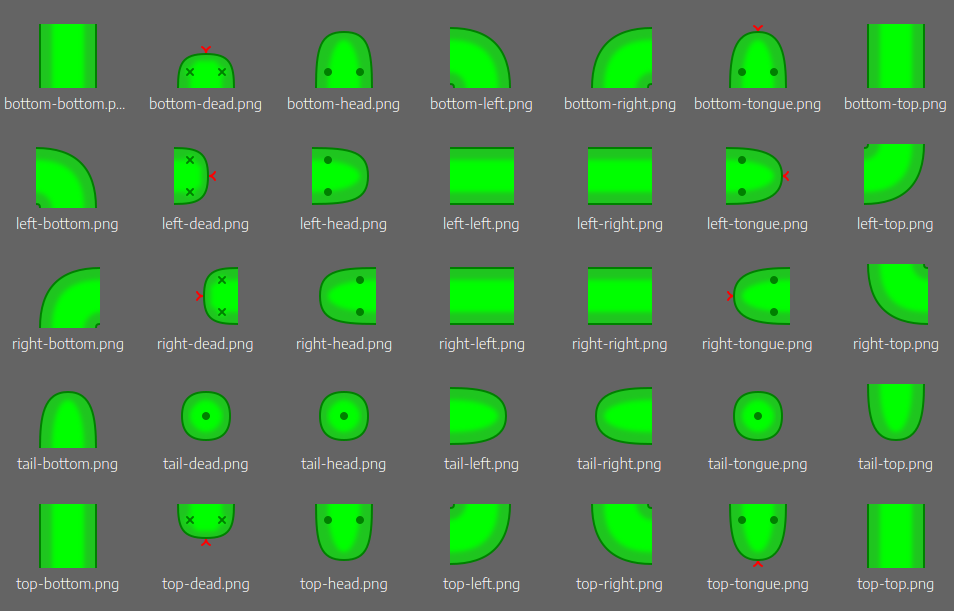
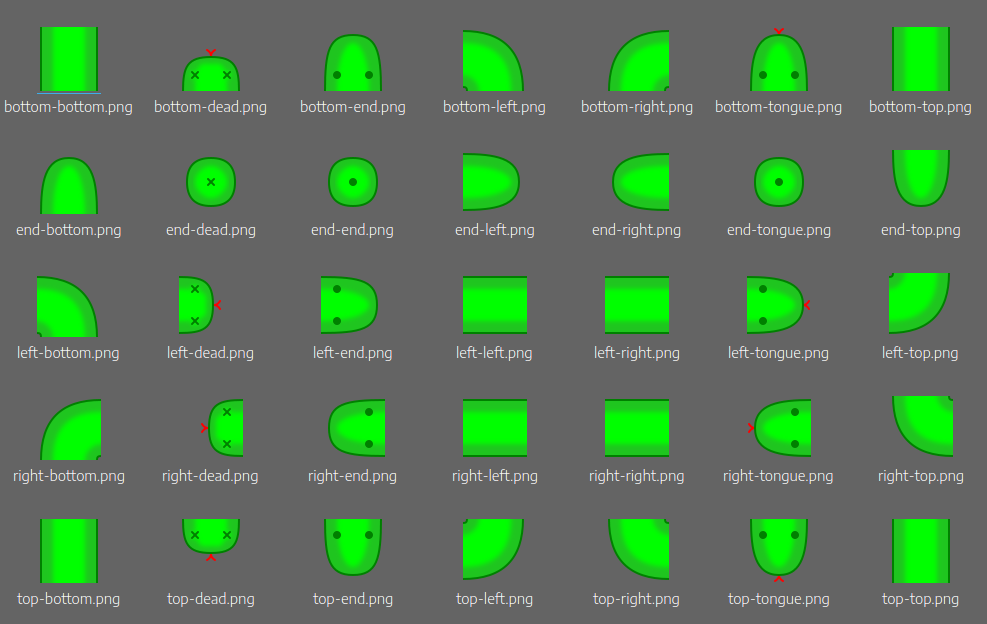
Rename 'tail' and 'head' snake parts to just 'end'

diff --git a/lessons/snake/drawing/index.md b/lessons/snake/drawing/index.md
@@ -317,7 +317,7 @@ Obrázek se jmenuje <var>odkud</var>-<var>kam</var>.png.
 
 > [note]
 > Co jsou taková ta divná „hadí vajíčka”?
-> <img src="{{ static('snake-tiles/tail-head.png') }}" alt="" style="display:block; float:left; margin: 2px; border: 1px solid #ccc; border-radius: 1px;">
+> <img src="{{ static('snake-tiles/end-end.png') }}" alt="" style="display:block; float:left; margin: 2px; border: 1px solid #ccc; border-radius: 1px;">
 > To je pro případ, že by had byl jen jedno políčko dlouhý – a tedy měl hlavu
 > i ocas na stejném políčku.
 > V dodělané hře se do takového stavu nedostaneme (had bude začínat s délkou 2),
@@ -353,7 +353,7 @@ for path in TILES_DIRECTORY.glob('*.png'):
 ```
 
 My z každého souboru potřebujeme nejlépe jméno, tedy místo
-`snake-tiles/right-head.png` jenom `right-head`.
+`snake-tiles/right-end.png` jenom `right-end`.
 Na to naštěstí existuje atribut `stem` (*kořen*, t.j. jméno bez přípony).
 Místo `print(path)` použij:
 
@@ -377,7 +377,7 @@ Až to budeš mít, měl by výpis vypadat asi takhle:
 ```
 {'right-tongue': <ImageData 64x64>, 'top-tongue': <ImageData 64x64>,
  'right-top': <ImageData 64x64>, 'left-bottom': <ImageData 64x64>,
- 'tail-left': <ImageData 64x64>, 'bottom-tongue': <ImageData 64x64>,
+ 'end-left': <ImageData 64x64>, 'bottom-tongue': <ImageData 64x64>,
  'left-top': <ImageData 64x64>, 'bottom-bottom': <ImageData 64x64>,
  ...
 ```
@@ -406,7 +406,7 @@ A teď zkus načtení obrázků začlenit do programu s hadem!
 Všechny importy patří nahoru, konstanty pod ně, a dál pak zbytek kódu.
 Vypisovat načtený slovník ve hře nemusíš.
 Zato ve vykreslovací funkci použij místo `green_image`
-třeba `snake_tiles['tail-head']`.
+třeba `snake_tiles['end-end']`.
 
 Místo čtverečků se teď objeví kuličky – místo hada budeš mít „housenku“.
 
@@ -440,7 +440,7 @@ def on_draw():
     pyglet.gl.glEnable(pyglet.gl.GL_BLEND)
     pyglet.gl.glBlendFunc(pyglet.gl.GL_SRC_ALPHA, pyglet.gl.GL_ONE_MINUS_SRC_ALPHA)
     for x, y in snake:
-        snake_tiles['tail-head'].blit(
+        snake_tiles['end-end'].blit(
             x * TILE_SIZE, y * TILE_SIZE, width=TILE_SIZE, height=TILE_SIZE)
     for x, y in food:
         red_image.blit(
@@ -515,13 +515,13 @@ for a, b, c in zip([None] + snake, snake, snake[1:] + [None]):
 
 
 ```
-1 2 tail right
+1 2 end right
 2 2 left right
 3 2 left top
 3 3 bottom top
 3 4 bottom top
 3 5 bottom right
-4 5 left head
+4 5 left end
 ```
 
 Toto je **těžký úkol**.

diff --git a/lessons/snake/logic/index.md b/lessons/snake/logic/index.md
@@ -39,8 +39,8 @@ def on_draw():
     pyglet.gl.glEnable(pyglet.gl.GL_BLEND)
     pyglet.gl.glBlendFunc(pyglet.gl.GL_SRC_ALPHA, pyglet.gl.GL_ONE_MINUS_SRC_ALPHA)
     for x, y in snake:
-        source = 'tail'     # (Tady případně je nějaké
-        dest = 'head'       #  složitější vybírání políčka)
+        source = 'end'     # (Tady případně je nějaké
+        dest = 'end'       #  složitější vybírání políčka)
         snake_tiles[source + '-' + dest].blit(
             x * TILE_SIZE, y * TILE_SIZE, width=TILE_SIZE, height=TILE_SIZE)
     for x, y in food:
@@ -201,8 +201,8 @@ def on_draw():
     pyglet.gl.glEnable(pyglet.gl.GL_BLEND)
     pyglet.gl.glBlendFunc(pyglet.gl.GL_SRC_ALPHA, pyglet.gl.GL_ONE_MINUS_SRC_ALPHA)
     for x, y in state.snake:
-        source = 'tail'     # (Tady případně je nějaké
-        dest = 'head'       #  složitější vybírání políčka)
+        source = 'end'     # (Tady případně je nějaké
+        dest = 'end'       #  složitější vybírání políčka)
         snake_tiles[source + '-' + dest].blit(
             x * TILE_SIZE, y * TILE_SIZE, width=TILE_SIZE, height=TILE_SIZE)
     for x, y in state.food:
@@ -688,7 +688,7 @@ kousky kódu, které prohru implementují:
 
 ```python
         # Grafická indikace
-        if dest == 'head' and not state.snake_alive:
+        if dest == 'end' and not state.snake_alive:
             dest = 'dead'
 ```
 
@@ -895,9 +895,9 @@ def on_draw():
     pyglet.gl.glEnable(pyglet.gl.GL_BLEND)
     pyglet.gl.glBlendFunc(pyglet.gl.GL_SRC_ALPHA, pyglet.gl.GL_ONE_MINUS_SRC_ALPHA)
     for x, y in state.snake:
-        source = 'tail'     # (Tady případně je nějaké
-        dest = 'head'       #  složitější vybírání políčka)
-        if dest == 'head' and not state.snake_alive:
+        source = 'end'     # (Tady případně je nějaké
+        dest = 'end'       #  složitější vybírání políčka)
+        if dest == 'end' and not state.snake_alive:
             dest = 'dead'
         snake_tiles[source + '-' + dest].blit(
             x * TILE_SIZE, y * TILE_SIZE, width=TILE_SIZE, height=TILE_SIZE)
